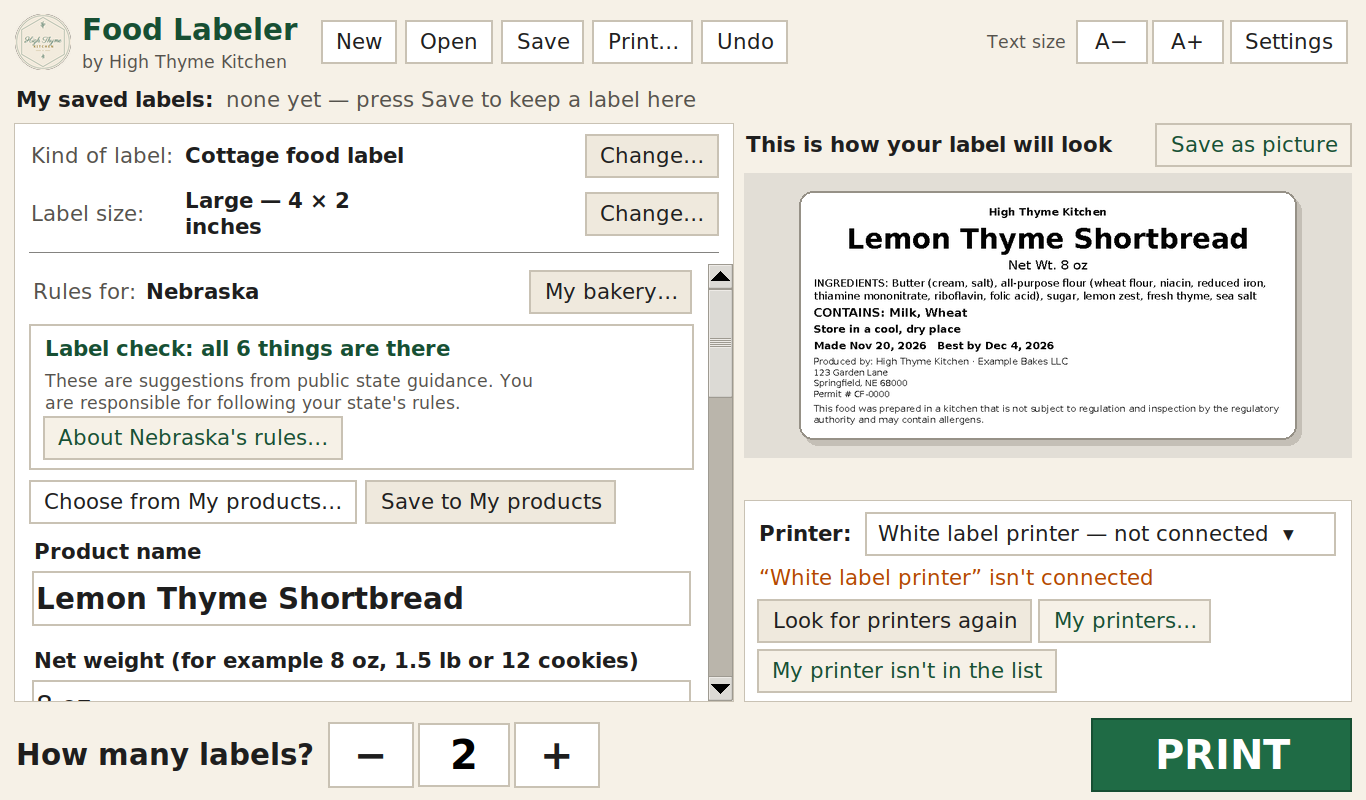
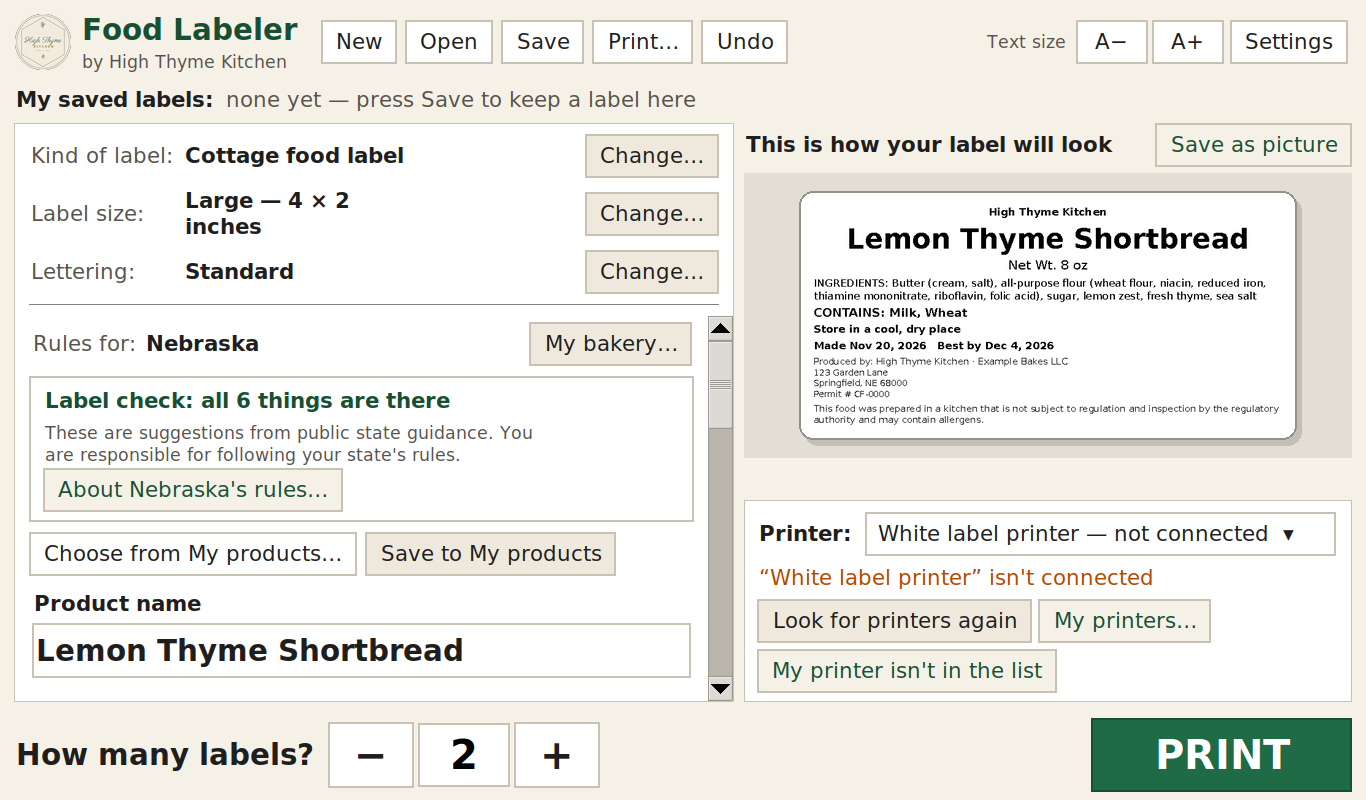
Lettering screenshots; nested windows hand the input lock back

Changed region(s): [[0.0, 0.3125, 0.5534, 0.875], [0.0, 0.3125, 0.2152, 0.375], [0.4919, 0.4688, 0.5534, 0.5312]]

diff --git a/tools/screenshot.py b/tools/screenshot.py
@@ -189,6 +189,40 @@ def products():
     return True
 
 
+@step
+def lettering():
+    from food_labeler.font_dialogs import LetteringDialog
+    app.doc.set_template("simple")
+    app.doc.fields.update(food="Lemon Thyme Shortbread", contains="Milk, Wheat",
+                          note="Keep refrigerated")
+    app.doc.lettering = {"name": "Pacifico", "other": "Lato"}
+    app._sync_ui_from_doc()
+    d = LetteringDialog(root, app.doc, app.render_ctx() if hasattr(app, "render_ctx")
+                        else cfg.render_ctx())
+    d.deiconify()
+    root.after(900, lambda: (grab("screenshot-lettering.png", d), d.destroy(),
+                             grab("screenshot-fancy-name.png"), nxt()))
+    return True
+
+
+@step
+def font_picker():
+    from food_labeler.font_dialogs import FontPicker
+    d = FontPicker(root, "name", "Pacifico")
+    d.deiconify()
+    root.after(900, lambda: (grab("screenshot-font-picker.png", d), d.destroy(), nxt()))
+    return True
+
+
+@step
+def get_fonts():
+    from food_labeler.font_dialogs import GetFontsDialog
+    d = GetFontsDialog(root, "Dancing Script")
+    d.deiconify()
+    root.after(700, lambda: (grab("screenshot-get-fonts.png", d), d.destroy(), nxt()))
+    return True
+
+
 def nxt():
     if not steps:
         root.after(100, root.destroy)

diff --git a/food_labeler/widgets.py b/food_labeler/widgets.py
@@ -73,12 +73,24 @@ class Modal(tk.Toplevel):
         center_on(self, self.master)
         self.deiconify()
         self.lift()
+        # Remember who held the input grab (another dialog that opened this one),
+        # so it gets it back when this one closes.
+        try:
+            previous = self.grab_current()
+        except (tk.TclError, KeyError):
+            previous = None
         try:
             self.grab_set()
         except tk.TclError:
             pass
         self.focus_force()
         self.wait_window()
+        try:
+            if previous is not None and previous.winfo_exists():
+                previous.grab_set()
+                previous.focus_force()
+        except tk.TclError:
+            pass
         return self.result
 
 

diff --git a/README.md b/README.md
@@ -111,6 +111,8 @@ Get the newest version from the **[Releases page](../../releases/latest)**:
 
 #### Fonts
 
+![A label with a fancy name in Pacifico](docs/screenshot-fancy-name.png)
+
 - **Lettering → Change…** (under *Label size*) lets you pick the kind of
   letters on your label: one for the **name of the food** and one for
   **everything else**. Each choice is shown in its own lettering, so you can
@@ -124,6 +126,12 @@ Get the newest version from the **[Releases page](../../releases/latest)**:
   *Dancing Script*, look at it, and press **Add this font**. This is the only
   part of Food Labeler that uses the internet, and you never need it.
   **Add a font file from my computer…** adds a font you already have.
+
+<p>
+<img src="docs/screenshot-lettering.png" alt="Choosing the lettering" width="32%">
+<img src="docs/screenshot-font-picker.png" alt="The list of lettering" width="32%">
+<img src="docs/screenshot-get-fonts.png" alt="Getting a font from Google Fonts" width="32%">
+</p>
 - If you open a label made on another computer with a font you don't have,
   Food Labeler shows it in the standard lettering and offers to get the font.
 
